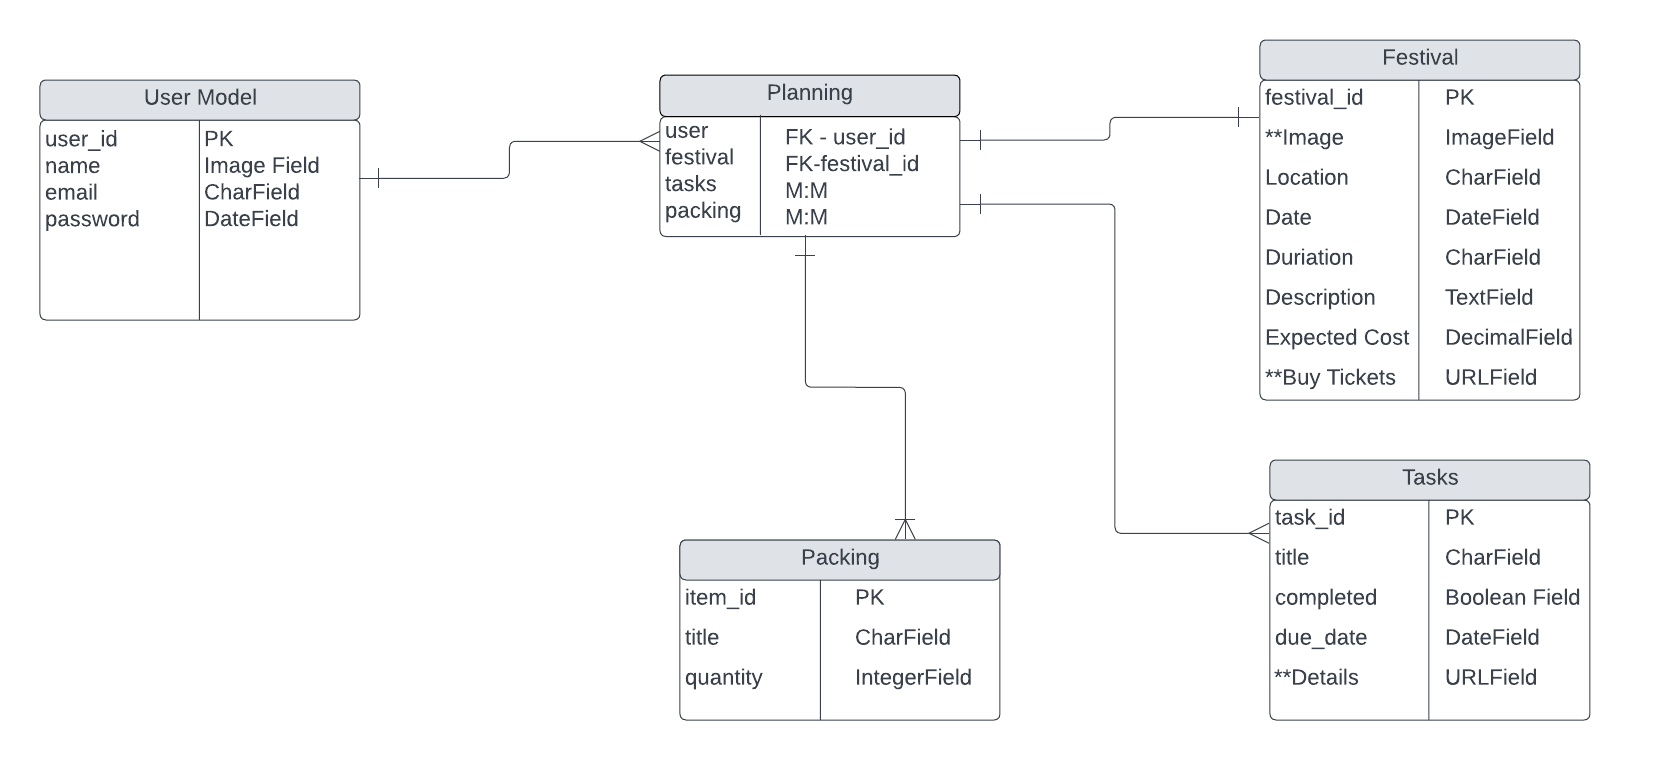
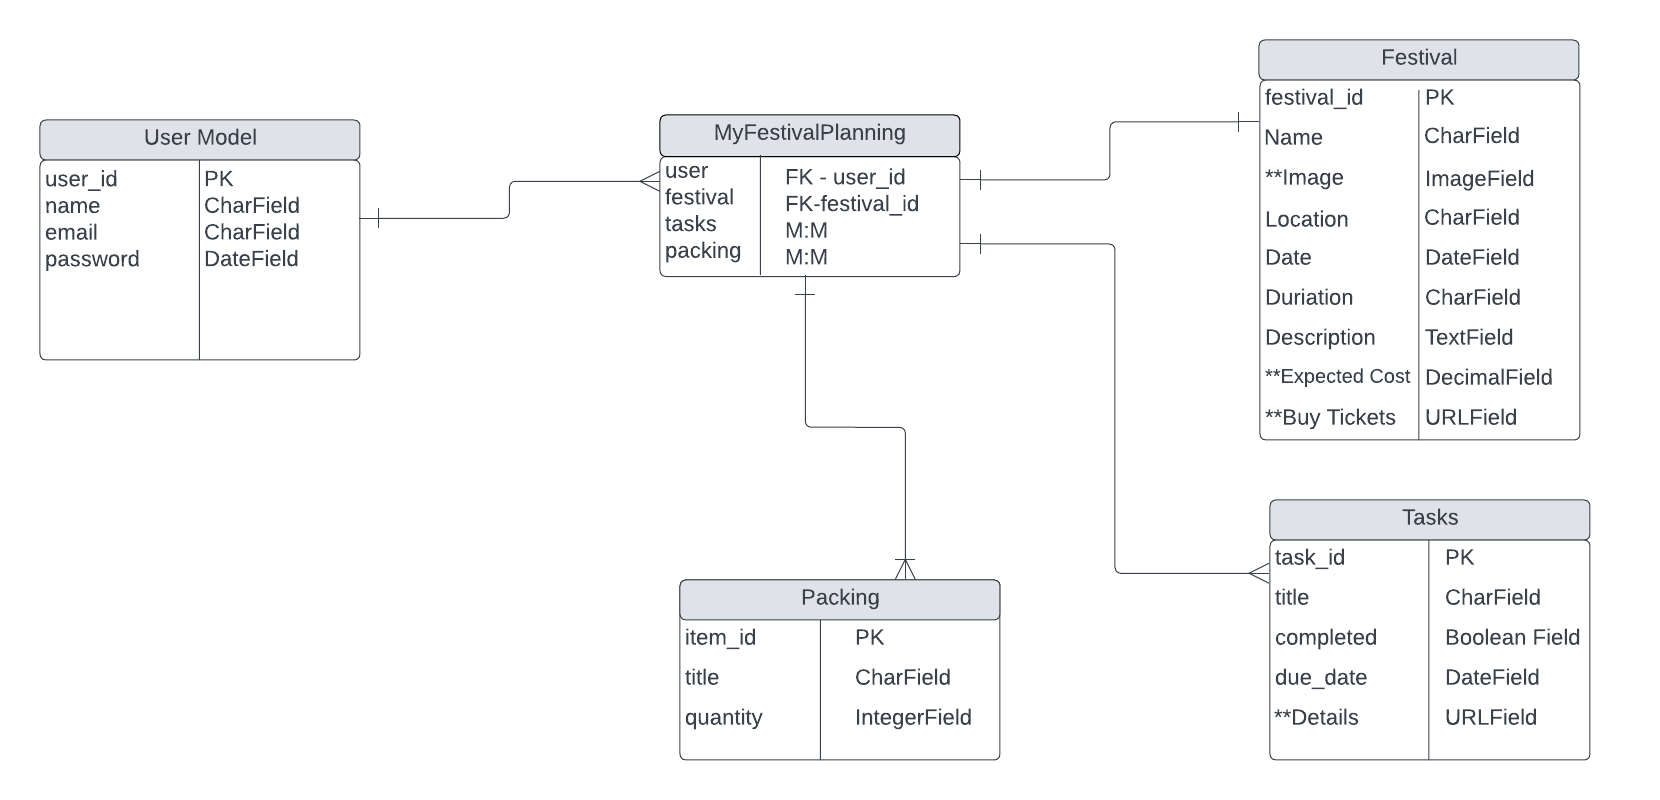
update festival to M:M, change view function

diff --git a/main_app/templates/myfestivals/index.html b/main_app/templates/myfestivals/index.html
@@ -1,9 +1,9 @@
 {% extends 'base.html' %}
 {% block content %}
 <h1>My Festivals </h1>
-{% if festivals %}
+
 <ul>
-{% for festival in festivals %}
+{% for festival in festivals.all %}
   <div class="card">
     <div class="card-content">
       <span class="card-title">{{ festival.name }}</span>
@@ -11,10 +11,12 @@
       <p>Date: {{ festival.date }}</p>
       <p>Duration: {{ festival.duration }}</p>
     </div>
+    {% empty %}
+    <p>You havent added any festivals yet</p>
   </div>
 {% endfor %}
 </ul>
-{% else %}
-<p>You havent added any festivals yet</p>
-{% endif %}
+
+
+
 {% endblock %}

diff --git a/main_app/templates/base.html b/main_app/templates/base.html
@@ -16,7 +16,7 @@
           <li><a href="{% url 'home' %}" class="left brand-logo">&nbsp;&nbsp;Festival Ace</a></li>
         </ul>
         <ul class="right">
-            <li><a href="{% url 'festivals_index' %}">All Festivals</a></li>
+            <li><a href="{% url 'index' %}">All Festivals</a></li>
             {% if user.is_authenticated %}
             <li><a href="{% url 'my_festivals_index' %}">My Festivals</a></li>
             <li><a href="{% url 'logout' %}">Log Out</a></li>

diff --git a/main_app/static/css/style.css b/main_app/static/css/style.css
@@ -4,11 +4,21 @@ body {
     min-height: 100vh;
     flex-direction: column;
     background-color: beige;
+    border-width: 10px;
+    border-color: red;
+    border-style: double;
   }
-
+  .card{
+    display: flex;
+    display: table-row;
+    padding:10px;
+    margin:30px;
+    border: red solid 2px;
+  }
   main {
     flex: 1 0 auto;
   }
+
 
   footer.page-footer {
     padding-top: 0;

diff --git a/main_app/templates/festivals/index.html b/main_app/templates/festivals/index.html
@@ -4,6 +4,7 @@
 
 {% for festival in festivals %}
   <div class="card">
+    <a href="{% url 'detail' festival.id%}">
     <div class="card-content">
       <span class="card-title">{{ festival.name }}</span>
       <p>Location: {{ festival.location }}</p>

diff --git a/main_app/views.py b/main_app/views.py
@@ -16,21 +16,13 @@ def festivals_detail(request, festival_id):
     festival = Festival.objects.get(id=festival_id)
     return render(request, 'festivals/detail.html', { 'festival': festival})
 
-def add_festival(request, festival_id):
-    festival = get_object_or_404(Festival, id=festival_id)
-    print(festival)
-    in_my_festivals = MyFestivalPlanning.objects.filter(user=request.user, festival=festival)
-    print(in_my_festivals)
-    if in_my_festivals.exists():
-            return redirect('detail', festival_id=festival_id)
-    add_to_my_festivals = MyFestivalPlanning(user=request.user, festival=festival)
-    print(add_to_my_festivals)
-    add_to_my_festivals.save()
-    return redirect('detail', festival_id=festival_id)
-
-
-
-
 def my_festivals_index(request):
     festivals = Festival.objects.filter(myfestivalplanning__user=request.user)
     return render(request, 'myfestivals/index.html', {'festivals': festivals})
+
+def add_festival(request, festival_id):
+    user = request.user
+    festival = Festival.objects.get(id=festival_id)
+    my_festivals_planning, created = MyFestivalPlanning.objects.get_or_create(user=user)
+    my_festivals_planning.festivals.add(festival)
+    return redirect('detail', festival_id=festival_id)

diff --git a/main_app/migrations/0003_alter_myfestivalplanning_unique_together_and_more.py b/main_app/migrations/0003_alter_myfestivalplanning_unique_together_and_more.py
@@ -1,0 +1,26 @@
+# Generated by Django 4.2 on 2023-04-19 01:05
+
+from django.db import migrations, models
+
+
+class Migration(migrations.Migration):
+
+    dependencies = [
+        ('main_app', '0002_myfestivalplanning'),
+    ]
+
+    operations = [
+        migrations.AlterUniqueTogether(
+            name='myfestivalplanning',
+            unique_together=set(),
+        ),
+        migrations.AddField(
+            model_name='myfestivalplanning',
+            name='festivals',
+            field=models.ManyToManyField(to='main_app.festival'),
+        ),
+        migrations.RemoveField(
+            model_name='myfestivalplanning',
+            name='festival',
+        ),
+    ]

diff --git a/main_app/urls.py b/main_app/urls.py
@@ -3,9 +3,9 @@ from . import views
 
 urlpatterns = [
     path('', views.home, name='home'),
-    path('festivals/', views.festivals_index, name='festivals_index'),
+    path('festivals/', views.festivals_index, name='index'),
     path('festivals/<int:festival_id>/', views.festivals_detail, name='detail'),
-    path('add_festival/<int:festival_id>', views.add_festival, name='add_festival'),
+    path('add_festival/<int:festival_id>/', views.add_festival, name='add_festival'),
     path('myfestivals/', views.my_festivals_index, name='my_festivals_index'),
 
 ]

diff --git a/main_app/models.py b/main_app/models.py
@@ -16,6 +16,6 @@ class Festival(models.Model):
 
 class MyFestivalPlanning(models.Model):
     user = models.ForeignKey(User, on_delete=models.CASCADE)
-    festival = models.ForeignKey(Festival, on_delete=models.CASCADE)
-    class Meta:
-         unique_together = ('user', 'festival')
+    festivals = models.ManyToManyField(Festival)
+    def __str__(self):
+        return f"{self.user.username}'s Festival Planning"
